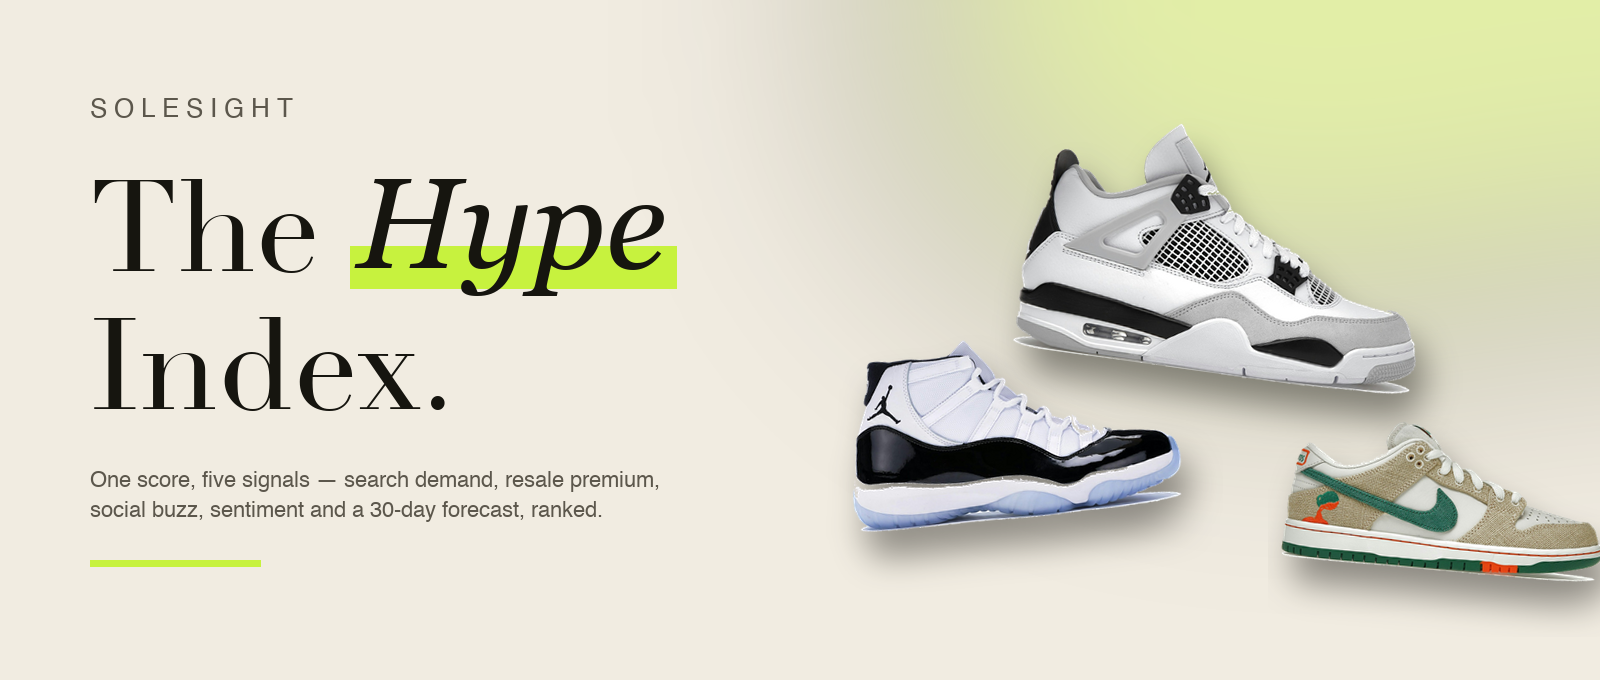
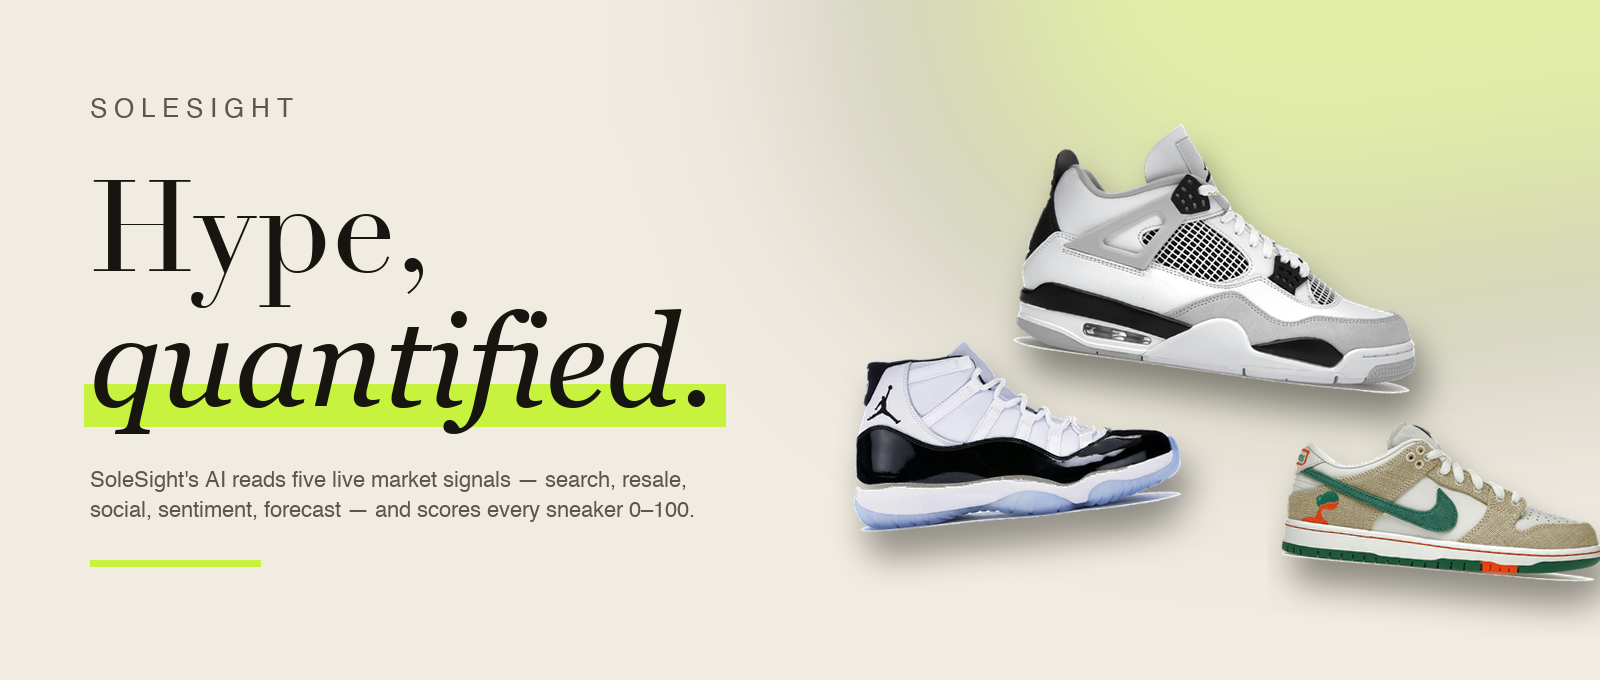
Rework tagline: 'Hype, quantified' with AI framing across site, README, dashboard

Changed region(s): [[0.0312, 0.2471, 0.4688, 0.6485], [0.0625, 0.6794, 0.4375, 0.7721], [0.0938, 0.4324, 0.125, 0.4632]]

diff --git a/web/index.html b/web/index.html
@@ -4,6 +4,7 @@
   <meta charset="UTF-8" />
   <meta name="viewport" content="width=device-width, initial-scale=1.0" />
   <title>SoleSight — The Hype Index</title>
+  <meta name="description" content="Hype, quantified. SoleSight's AI reads five live market signals and scores every sneaker 0–100." />
   <link rel="preconnect" href="https://fonts.googleapis.com" />
   <link rel="preconnect" href="https://fonts.gstatic.com" crossorigin />
   <link href="https://fonts.googleapis.com/css2?family=Instrument+Serif:ital@0;1&display=swap" rel="stylesheet" />
@@ -34,12 +35,12 @@
       <div class="hero-copy reveal">
         <div class="eyebrow" id="hero-eyebrow">The Hype Index</div>
         <h1 class="hero-title">
-          What the <em>culture</em><br />is chasing<br />right&nbsp;now.
+          Hype,<br /><em>quantified</em>.
         </h1>
         <p class="hero-sub">
-          One score, five signals. SoleSight blends search demand, resale
-          premium, social buzz, community sentiment and a 30-day forecast into a
-          single <strong>Hype Score</strong> — ranked across every silhouette we track.
+          SoleSight's AI reads five live market signals — search demand, resale
+          premium, social buzz, community sentiment and a 30-day forecast — and
+          distills them into one <strong>Hype Score</strong> for every silhouette it tracks.
         </p>
         <div class="hero-actions">
           <a href="#index" class="btn btn-solid">Explore the index</a>

diff --git a/app/streamlit_app.py b/app/streamlit_app.py
@@ -712,7 +712,7 @@ st.markdown(
         <div class="logo-icon">👟</div>
         <div>
           <div class="logo-text">SOLE<span>SIGHT</span></div>
-          <div class="logo-sub">Sneaker Intelligence Platform</div>
+          <div class="logo-sub">AI Sneaker-Market Intelligence</div>
         </div>
       </div>
       <div class="nav-pill">

diff --git a/README.md b/README.md
@@ -2,7 +2,7 @@
 
 # 👟 SoleSight
 
-**Sneaker & Streetwear Consumer Intelligence Platform**
+**Hype, quantified — AI consumer intelligence for the sneaker market.**
 
 **▶ Live: [jairaj1111.github.io/solesight](https://jairaj1111.github.io/solesight/)** — the Hype Index, ranking 23 silhouettes by a composite 0–100 Hype Score.
 